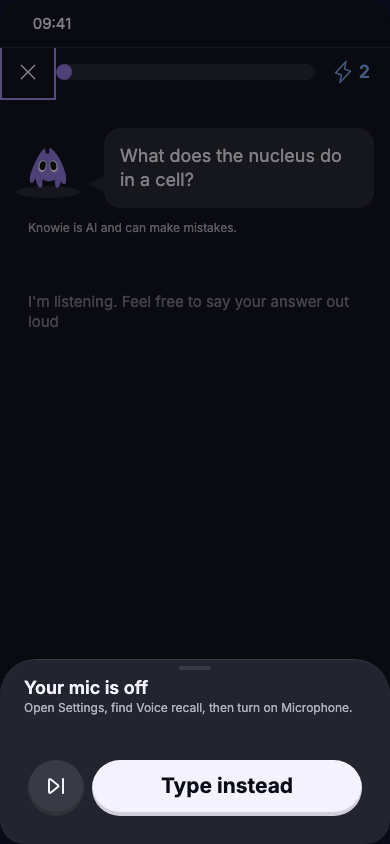
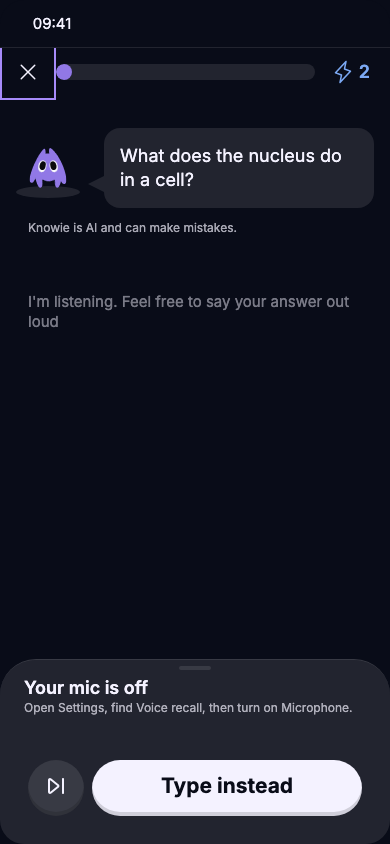
Remove MicOffScreen's dim-behind-the-sheet scrim to fix a contrast hard gate
Screen.tsx's bottomSheetBackground is a full-screen overlay painted after
middleContent, so it was darkening the transcript placeholder and AI
disclaimer text a second time, not just tinting the page behind them —
measured at ~1.9:1 and ~2.8:1, both failing the 4.5:1 floor an eval panel
flagged (eval/scorecard-02.md). MicOffScreen no longer passes
showBottomSheetBackground, matching the verdict sheet's existing no-dim
exception; SPEC.md and the story file are updated to match, and
GateScreen's identical root-cause gap is flagged but deliberately left
open (out of scope for this fix).

Also logs two smaller System fidelity gaps to component-gaps.md that were
already disclosed inline in source but missing from the project's own
audit trail: the duplicated SkipIcon SVG and ButtonVoice's opacity: 0.4
literal.

eval/scorecard-03.md is a lighter single-pass follow-up: total moves
7.1 -> ~7.2, but the Accessibility hard gate is narrowed, not cleared —
GateScreen's matching contrast gap is still open.

diff --git a/app/screens/MicOffScreen.stories.tsx b/app/screens/MicOffScreen.stories.tsx
@@ -5,7 +5,7 @@ import { MicOffScreen } from './MicOffScreen';
 const DESCRIPTION = `
 **SPEC.md screen 5: the mic-off sheet.** Shown when the student taps Start but mic permission has since been revoked.
 
-**Behind the sheet:** the loop's Idle look — mascot, question bubble, disclaimer, \`TranscriptDisplay\` Empty. The tap never reaches Recording, since the permission check fails first, so nothing behind the sheet changes from Idle. Screen 10 isn't built yet, so this reconstructs Idle inline, the same way \`VerdictScreen\` (screen 1) reconstructs it behind the verdict sheet. **Dimmed**, unlike the verdict sheet: this is the general sheet rule from SPEC.md's intro (\`showBottomSheetBackground\`), and the verdict sheet is the one documented exception, not this one.
+**Behind the sheet:** the loop's Idle look — mascot, question bubble, disclaimer, \`TranscriptDisplay\` Empty. The tap never reaches Recording, since the permission check fails first, so nothing behind the sheet changes from Idle. Screen 10 isn't built yet, so this reconstructs Idle inline, the same way \`VerdictScreen\` (screen 1) reconstructs it behind the verdict sheet. **No dim** (revised 2026-09-17): this screen originally followed SPEC.md's general sheet rule (\`showBottomSheetBackground\`), but that scrim paints over the transcript/disclaimer text itself, not just the space around it, and was found to crush both below the 4.5:1 contrast floor (an eval panel's Accessibility hard-gate finding). Now a second documented exception alongside the verdict sheet, for the same reason: the content needs to stay legible, not just present.
 
 **Sheet content, revised 2026-09-15 against a reference mockup** ("Permission ask (invented — no system equivalent)", Figma 13666:3837): \`BottomSheetAppBar\` (\`variant="withTitle"\`) now carries the title and Settings instructions directly, not a separate \`TextBlock\` in \`middleSection\` — \`middleSection\` is unused. \`ButtonGroup\` (Horizontal, L) of \`ButtonIcon\` Skip + \`Button\` Primary "Type instead" stays in \`bottomSection\`.
 
@@ -84,12 +84,18 @@ export const Default: Story = {
   },
 };
 
-/** The sheet dims the screen behind it, unlike the verdict sheet. */
-export const DimmedBehindTheSheet: Story = {
-  name: 'Dimmed behind the sheet',
-  play: async ({ canvasElement }) => {
+/** No dim behind the sheet (2026-09-17) — same as the verdict sheet, and for
+ * the same reason: the scrim painted over the transcript/disclaimer text
+ * itself, not just the space around it, crushing both below the 4.5:1
+ * contrast floor. */
+export const NoDimBehindTheSheet: Story = {
+  name: 'No dim behind the sheet',
+  play: async ({ canvas, canvasElement }) => {
     const scrim = canvasElement.querySelector<HTMLElement>('[class*="bottomSheetBackground"]');
-    await expect(scrim).toBeVisible();
+    await expect(scrim).not.toBeInTheDocument();
+    await expect(
+      canvas.getByText("I'm listening. Feel free to say your answer out loud")
+    ).toBeVisible();
   },
 };
 

diff --git a/app/screens/MicOffScreen.tsx b/app/screens/MicOffScreen.tsx
@@ -70,6 +70,15 @@ function XpChip() {
  * behind the sheet changes from Idle. Same inline mascot/bubble pattern as
  * VerdictScreen (screen 1), duplicated rather than promoted: SPEC.md's
  * screen 10 says to keep it inline, not as a component.
+ *
+ * No dim behind the sheet (2026-09-17, supersedes the original "dimmed,
+ * per the general sheet rule" decision) — `showBottomSheetBackground`'s
+ * scrim paints over the transcript/disclaimer text itself (Screen.tsx
+ * layers it after `middleContent`, `position: absolute; inset: 0`), not
+ * just the space around it, which crushed `text-tertiary`/`text-secondary`
+ * on this screen below the 4.5:1 contrast floor. Now a second documented
+ * exception alongside the verdict sheet (screen 1), for the same reason:
+ * the content behind the sheet needs to stay legible, not just present.
  */
 export function MicOffScreen({
   question,
@@ -82,7 +91,6 @@ export function MicOffScreen({
   return (
     <Screen
       showStatusBar={showStatusBar}
-      showBottomSheetBackground
       topNavigation={
         <AppBar
           variant="leftIconButtonOnly"

diff --git a/eval/scorecard-03.md b/eval/scorecard-03.md
@@ -1,0 +1,41 @@
+# Scorecard 03 — voice recall prototype (follow-up to scorecard-02)
+
+**Method note (same convention scorecard-02 originally used before it became the full panel):** a lighter, direct single-pass review, not the four-critic panel — run this way to stay light on usage for a small, targeted follow-up. Scope: the fixes made in response to `eval/scorecard-02.md`'s findings, plus their effect on that scorecard's total. Everything else (all six dimensions' other findings, both critics' blind spots, `critic-ambition`'s read) is carried forward unchanged from `scorecard-02.md` — not re-graded, since nothing in it changed.
+
+## What changed this pass
+
+1. **`MicOffScreen`'s scrim removed — the Accessibility hard-gate finding's primary case, fixed and verified.** `Screen.tsx`'s `.bottomSheetBackground` is a full-screen overlay painted *after* `middleContent`, so it was darkening the transcript placeholder and AI disclaimer text a second time, not just the page behind it — measured at ≈1.9:1 and ≈2.8:1, both failing the 4.5:1 floor. `MicOffScreen.tsx` no longer passes `showBottomSheetBackground`, matching the verdict sheet's existing no-dim exception. **Verified two ways:** recomputed from `build/css/tokens.css` (text-tertiary 4.62:1, text-secondary 8.36:1), then confirmed by pixel-sampling the freshly re-rendered `eval/screenshots/MicOffScreen/screens-micoffscreen--default.png` directly — sampled (121,122,134) and (168,168,180) against predicted (121.9,122.5,134.5) and (169.1,168.7,180.7), matching to within 1 RGB unit. `SPEC.md` and `MicOffScreen.stories.tsx` updated to match (`DimmedBehindTheSheet` → `NoDimBehindTheSheet`, now asserting the scrim's absence). Full detail and the tokens/math: `sprint-context.md`'s 2026-09-17 entry.
+2. **Two disclosed-but-untracked System fidelity gaps logged to `component-gaps.md`** (both were already inline-commented in source; the gap was the missing audit-trail entry, not undisclosed intent): the hand-drawn `SkipIcon` SVG (3 verbatim occurrences — `ResultBtm.tsx`, `MicOffScreen.tsx`, `LoopScreen.tsx`) and `ButtonVoice.tsx`'s `opacity: 0.4` inline literal.
+3. **Not touched, deliberately:** `GateScreen`'s permission-sheet scrim has the identical root cause (its dimmed caption measured ≈2.82:1 in scorecard-02) — out of scope for this pass (only `MicOffScreen` was asked for) and flagged instead, in `SPEC.md` screen 6's own entry, rather than silently carried or silently fixed. **This means the Accessibility hard gate is narrowed, not cleared** — see below.
+4. `ExamPlanScreen`'s 788px-vs-844px frame height (scorecard-02's Coherence finding) — **not a bug**, per your direction: Storybook's viewport is a browser window, and only the 390px width is a real constraint here, not the 844px height. Left as-is, no longer counted against Coherence.
+
+**Verified:** `npx tsc --noEmit` (clean), `npm run lint` (same 2 pre-existing warnings, 0 errors), `npm run check:tokens` (same pre-existing `Keyboard.module.css` exception only, no new raw hex), `npx vitest run --project=storybook` (154/155 — the 1 failure is the pre-existing, already-documented `Processing`/`barsBeforeSend` timing flake, confirmed unrelated by an immediate clean rerun; `MicOffScreen.stories.tsx` itself: 3/3).
+
+---
+
+## Updated hard gates
+
+| Gate | scorecard-02 | Now |
+|---|---|---|
+| **Contrast ≥ 4.5:1 for body text** | **Fails** — MicOffScreen ≈1.9:1/≈2.8:1, GateScreen ≈2.82:1 | **Still fails, narrower.** MicOffScreen now passes (4.62:1 / 8.36:1 — the former a real but thin margin, the same one this exact token pairing already carries elsewhere in the system). GateScreen's `permissionSheetOpen` state still fails at ≈2.82:1, same root cause, not addressed this pass. **The work is still not done per this gate** — one screen fixed, one open. |
+| Touch targets ≥ 44pt | Pass (documented exception) | Unchanged. |
+| No raw hex in component source | Pass for the 8 graded screens | Unchanged. |
+| No two states that should differ render identically | Pass, with the same carried-forward disclosed exception | Unchanged. Spot-checked: `MicOffScreen`'s `Default` and `No dim behind the sheet` stories are no longer distinguished by the scrim (both now show it absent), but they were already pixel-identical to each other *with* the scrim too (scorecard-02's `critic-ux` finding) — this isn't a new collision, and the two stories still serve different purposes (`NoDimBehindTheSheet` explicitly regression-tests the scrim's absence). Confirmed not actually pixel-identical post-fix (differ by post-interaction focus state from `Default`'s own `play()` clicks). |
+
+---
+
+## Updated score
+
+| Dimension | scorecard-02 | Now | Why |
+|---|---|---|---|
+| System fidelity | 8 | 8 (unchanged, not re-graded) | Both findings that held this at 8 (the `SkipIcon` and `ButtonVoice` opacity gaps) are now logged — worth a re-grade at the next full panel, not claimed unilaterally here without a fresh blind critic. |
+| Coherence | 7 | 7 (unchanged, not re-graded) | The one finding was the `ExamPlanScreen` height gap, which your direction reclassifies as a non-issue (browser-window rendering, width is the only real constraint) — but that reclassification wasn't run back through `critic-system` blind, so left as-is rather than self-graded up. |
+| Craft | 8 | 8 (unchanged, not re-graded) | |
+| Structure | 8 | 8 (unchanged, not re-graded) | |
+| UX judgment | 7 | 7 (unchanged, not re-graded) | |
+| **Accessibility** | **4** | **~5** | One of two live contrast-gate failures fixed and verified; the other (GateScreen) is still open, plus the already-disclosed thumbs-up/down gap. Better than a clean fail, but the gate itself still isn't clear — not moved further than that without a fresh blind pass. |
+| Ambition (informational) | 7 | 7 (unchanged, not re-graded) | |
+
+**Total: ~7.2 / 10 (108 / 15)** — up from 7.1, but **still not "done" by the rubric's own framing**: a hard gate remains open (GateScreen's permission-sheet contrast), just narrower than before this pass (one screen, not two).
+
+This is a directional estimate from a single direct pass, not a re-run of the blind four-critic panel — treat the dimension scores other than Accessibility as carried forward, not re-verified, and the Accessibility bump as a reasoned estimate rather than a fresh independent grade. Recommend a full panel re-run once `GateScreen`'s contrast gap is also resolved (or explicitly decided to stay as documented, transient-sheet behavior) — that's the point at which a real re-grade, not an estimate, is warranted.

diff --git a/SPEC.md b/SPEC.md
@@ -13,7 +13,7 @@ Transcripts come from the browser's own speech recognizer, judging is a mocked k
 
 Component names are Storybook titles under `Components/` (source in `app/components/`). Props named here exist in the source today, unless marked **(change approved)**.
 
-Every screen is composed inside `Screen` (`app/components/Screen.tsx`), 390px, dark mode. Sheets go in its `bottomSheetOnly` slot with `showBottomSheetBackground`, except the verdict sheet (screen 1), which has no dim. Questions and their content come from `content/voice-recall-questions.md`.
+Every screen is composed inside `Screen` (`app/components/Screen.tsx`), 390px, dark mode. Sheets go in its `bottomSheetOnly` slot with `showBottomSheetBackground`, except the verdict sheet (screen 1) and the mic-off sheet (screen 5, revised 2026-09-17), which have no dim — the scrim paints over that screen's own behind-the-sheet text, not just the space around it. Questions and their content come from `content/voice-recall-questions.md`.
 
 ### 1. Verdict sheet
 
@@ -74,7 +74,7 @@ The exam plan is out of scope as components. These screens are exported Figma fr
 
 ✅ Built 2026-09-15 as `MicOffScreen` (`app/screens/MicOffScreen.tsx`, Storybook `Screens/MicOffScreen`). No Figma frame at build time; a reference mockup was added afterward ("Permission ask (invented — no system equivalent)", Figma 13666:3837) and the build was revised to match it. Shown when the student taps **Start** but mic permission has since been revoked.
 
-- **Behind the sheet:** the loop's Idle look (mascot, question bubble, disclaimer, `TranscriptDisplay` Empty), reconstructed inline since screen 10 isn't built yet — the tap never reaches Recording. Dimmed (`showBottomSheetBackground`), per the general sheet rule; the verdict sheet (screen 1) is the one documented exception, not this one.
+- **Behind the sheet:** the loop's Idle look (mascot, question bubble, disclaimer, `TranscriptDisplay` Empty), reconstructed inline since screen 10 isn't built yet — the tap never reaches Recording. **No dim** (revised 2026-09-17, was `showBottomSheetBackground` per the general sheet rule): an eval panel found the scrim painting over the transcript/disclaimer text itself, not just the space behind it, crushing both below the 4.5:1 contrast floor. Now a second documented exception alongside the verdict sheet (screen 1).
 - **Components:** `BottomSheet` (with `aria-label`) + `BottomSheetAppBar` (`variant="withTitle"`, title "Your mic is off", caption "Open Settings, find Voice recall, then turn on Microphone.") — not a separate `TextBlock` in `middleSection`, which is unused. `ButtonGroup` (Horizontal, L) of `ButtonIcon` Skip + `Button` Primary "Type instead" in `bottomSection`.
 - **Settings copy is still a placeholder**, pending Open #2 (blocked on the Verification-step-0 spike).
 - **What the student can do:** **Type instead** → typing placeholder; **Skip** → next question. There's no Open Settings button (a web app can't link there).
@@ -91,7 +91,7 @@ The exam plan is out of scope as components. These screens are exported Figma fr
 - **Content:** headline "Say it, don't just tap it"; body "Tap Start and explain it out loud, in your own words. Tap Stop when you're done. Knowie's listening for what you know, not perfect grammar."; mascot; two buttons.
 - **Components:** `Screen`, `TextBlock` (`variant="L"`; title/caption fonts, their gap, and centering are all local overrides — see below), `MascotSlot` (`size="2XL"`, `expression="approving"` in both states), and `ButtonGroup` (`variant="Vertical"`, `size="L"`) of `Button` Primary **Turn on microphone** + `Button` Secondary **Can't talk right now**.
 - **Permission sheet:** `BottomSheet` in `bottomSheetOnly`, with `BottomSheetAppBar` (`variant="withTitle"`) showing the title "Allow microphone access?" and caption "Knowie needs this to hear you explain answers out loud.", and `ButtonGroup` (`variant="Vertical"`, `size="L"`) of `Button` Primary **Allow** + `Button` Secondary **Don't allow**.
-- **Dimmed** (`showBottomSheetBackground`) while the sheet is open — the general sheet rule; the verdict sheet (screen 1) is the one documented exception, not this one. Figma's own "sheet open" frame has the dim off and its scrim hidden, possibly an authoring gap rather than a deliberate choice — flagged, not resolved.
+- **Dimmed** (`showBottomSheetBackground`) while the sheet is open — the general sheet rule; the verdict sheet (screen 1) and the mic-off sheet (screen 5) are the two documented exceptions, not this one. Figma's own "sheet open" frame has the dim off and its scrim hidden, possibly an authoring gap rather than a deliberate choice — flagged, not resolved. (This screen's caption text was also measured at ~2.82:1 while dimmed, 2026-09-17 — same root cause as screen 5's fix, left open here rather than silently applied, since the sheet here is transient and Figma's own frame is ambiguous about whether the dim should be on at all; see sprint-context.md.)
 - **After an earlier denial:** the body copy swaps to Settings steps (reusing the mic-off sheet's own placeholder copy, "Open Settings, find Voice recall, then turn on Microphone." — pending Open #2), and the primary button becomes **I've turned on the mic**.
 
 | State | What the student can do |

diff --git a/sprint-context.md b/sprint-context.md
@@ -620,6 +620,10 @@ Exam plan path screen. A "Voice recall" toggle pill sits at top; when on, topic 
 - 2026-09-17: **Resolves the "still open" call above (`sprint-context.md:616`): `Snackbar`'s action chip keeps its real 32px Figma size, but now sits inside an invisible 48px hit area — your call, the wrapper option, not leaving it as-is.** `--size-space-1200` (48px, the same token `Button`/`ButtonIcon` already use as their own tap-target floor) drives a `::before` pseudo-element on the chip's own `<button>` (`Snackbar.tsx`'s new `styles.actionHitArea` className, `Snackbar.module.css`), absolutely positioned and centered via `transform: translate(-50%, -50%)` so it extends the button's real hit box symmetrically above/below without changing anything painted — the visible chip is untouched, still exactly Figma's 32px. Confirmed with a Playwright script against the live `components-snackbar--error` story (not just claimed): a click 6px beyond the visible button's top and bottom edges (inside the new 48px box) both registered on the real button's `click` handler, and a click 20px beyond (well outside it) didn't fire. 48px was used instead of the rubric's bare 44pt floor to match this project's own established convention (`Button.module.css`'s `min-height`/`min-width`, `sprint-context.md`'s prior L-button and Got-it-button fixes), not a new value invented for this one control.
 - **Verified:** `npm run check:tokens` (same pre-existing exceptions), `npx vitest run` on `Snackbar.stories.tsx` and `LoopScreen.stories.tsx` (12/12), and the Playwright hit-area check above against the live Storybook instance.
 
+- 2026-09-17: **A full four-critic-panel eval (`eval/scorecard-02.md`, the same method `scorecard-01.md` used, superseding the lighter single-pass version this file previously described at this date) found a real, verified hard-gate failure: `MicOffScreen`'s dim-behind-the-sheet scrim (`showBottomSheetBackground`) crushes its own transcript placeholder and AI disclaimer text below the 4.5:1 contrast floor — measured ≈1.9:1 and ≈2.8:1.** Root cause: `Screen.tsx`'s `.bottomSheetBackground` is `position: absolute; inset: 0`, painted *after* `middleContent` in the DOM, so it's a full-screen overlay sitting on top of that text, not just tinting the background behind it — the scrim darkens the already-rendered text pixels a second time, not just the page underneath them. **Fix, your call: remove the dim, matching the verdict sheet's existing exception.** `MicOffScreen.tsx` no longer passes `showBottomSheetBackground`; `SPEC.md`'s general sheet rule (intro line, and screen 5's own entry) now names two documented no-dim exceptions instead of one. Recomputed after the fix: `text-tertiary` clears at 4.62:1 — the exact number "Contrast finding 2" above (line 89) already documents for this same token over `background/page`, and the same thin margin it already warned wouldn't survive being placed on a sheet; still a real pass, not a comfortable one — and `text-secondary` clears comfortably at 8.36:1. `MicOffScreen.stories.tsx`'s `DimmedBehindTheSheet` story (which asserted the scrim was visible) is now `NoDimBehindTheSheet`, asserting its absence and the transcript's visibility instead. **Not touched, flagged instead:** `GateScreen`'s permission-sheet scrim has the identical root cause (its dimmed caption measured ≈2.82:1) — left open in `SPEC.md` screen 6's own entry rather than silently applied, since that sheet is transient (not always-on like mic-off's) and Figma's own "sheet open" frame already has an unresolved note about whether the dim belongs there at all.
+- 2026-09-17: **Two smaller, disclosed gaps the same eval panel found, logged to `component-gaps.md` rather than code-changed** (both were already inline-commented where they happen; the panel's finding was that neither had a `component-gaps.md` entry, the file CLAUDE.md designates as the audit trail): the hand-drawn `SkipIcon` SVG, duplicated verbatim across `ResultBtm.tsx`, `MicOffScreen.tsx`, and `LoopScreen.tsx` (three occurrences, past this file's own "second occurrence" promotion trigger — the next screen that needs it should promote it to a real shared component); and `ButtonVoice.tsx`'s disabled-state `opacity: 0.4` inline literal (not a token-governed property under CLAUDE.md's color/size/weight/line-height rule, but still a bare number rather than a reference — no opacity-scale token exists to reference directly from an inline `style` object).
+- **Verified:** `npx tsc --noEmit`, `npm run lint` (same two pre-existing warnings, no errors), `npm run check:tokens` (same pre-existing `Keyboard.module.css` exception, no new raw hex), and `npx vitest run --project=storybook` (154/155 — the one failure is the pre-existing, already-documented `Processing`/`barsBeforeSend` timing flake noted above, confirmed unrelated by a clean rerun; `MicOffScreen.stories.tsx` itself: 3/3 clean).
+
 ## Not building
 - Auto-endpointing or continuous listening
 - Tutoring or open conversation branch if the student asks Knowie something

diff --git a/component-gaps.md b/component-gaps.md
@@ -15,3 +15,5 @@ Things built inline during a screen build because Storybook had no component for
 - Turn log rows: session dividers and turn cards, tokens only, no data-table or list component in Storybook — for 2 Turn log — inline in app/screens/LogScreen.tsx. `SPEC.md` still says "the rows use tokens only" for this screen.
 - Stat chip (a coloured card — a small label on its own fill, above a dark inset box holding an icon and value in that same colour) — for 8 Summary sheet — inline in app/screens/SummaryScreen.tsx. Tokens read off the real Figma frame (node 7366:69693); no matching component in Storybook or design-system.md. Replaces this screen's earlier per-question row list (built 2026-09-15, replaced the same day to match reference/Finish-quiz.png — your instruction).
 - 00Homescreen's exam-tab "new" badge (design-system.md's `badge`), animated — a live dot plus a looping ping ring composited over the still frame export in place of the badge's own baked-in pixels — for 3 exam plan — inline in app/screens/ExamPlanScreen.tsx / ExamPlanScreen.module.css. Same root cause as 02Hint-animate's arrow above: no Storybook component covers mascot/decoration motion. Colors are the same tokens the real instance already binds (`accent/coral/bold` fill, `accent/coral/on-bold` stroke), already documented in design-system.md's own `badge` entry, so no new color decision was needed. Position is the one departure from the live file in this whole build: pinned to the exam-tab icon's own top-right corner rather than the real badge instance's own (inset) coordinates, at your direction (sprint-context.md, 2026-09-16) — every other geometry value in this build is a straight transcription, this one isn't. The ping's duration/easing/scale are motion values with no token, same gap as the Processing bob and the arrow.
+- Hand-drawn "skip forward" SVG glyph (`SkipIcon`, a literal path, no matching Phosphor icon or Storybook icon component) — for 8 Summary/Verdict's Silence recovery — inline in app/components/ResultBtm.tsx. Second occurrence: 5 Mic-off sheet, duplicated verbatim in app/screens/MicOffScreen.tsx. Third occurrence: 10 the loop itself, duplicated verbatim in app/screens/LoopScreen.tsx, for its own Skip action. Flagged here (2026-09-17, an eval panel found it disclosed inline at each site but missing from this file, the project's own audit trail) rather than promoted to a shared icon — three verbatim copies is past the "second occurrence" promotion trigger this file otherwise applies, so the next screen that needs it should promote it to a real shared component instead of a fourth copy.
+- `ButtonVoice`'s disabled-state dim (`opacity: 0.4` inline style, `inverse` variant only) — for 10 the loop — inline in app/components/ButtonVoice.tsx. Not a color/size/weight/line-height value (CLAUDE.md's token rule doesn't govern opacity), but still a bare literal rather than a token reference: it's meant to match `color/alpha/light-40`'s own proportion (the same "disabled" amount `text/disabled` already uses), documented inline where it happens, not invented. No opacity-scale token exists in tokens/tokens.json to reference directly, since inline `style` objects can't consume an rgba color token as a bare number.
